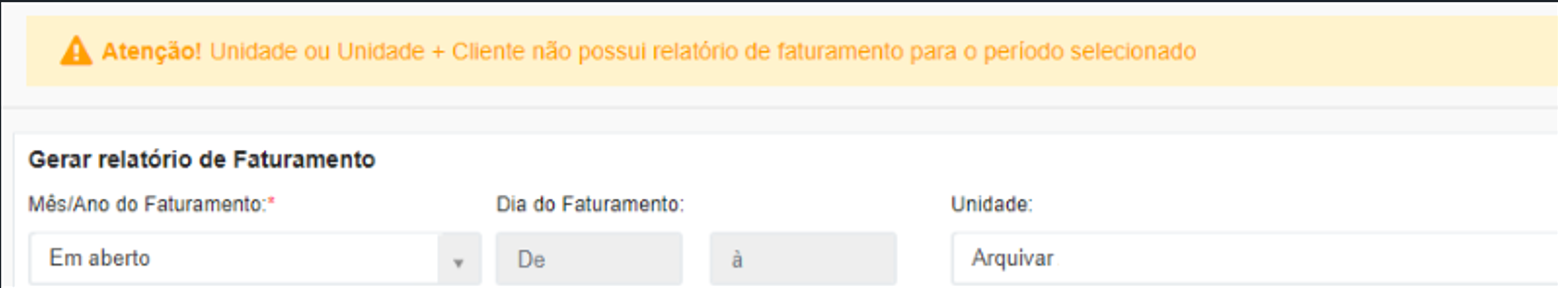
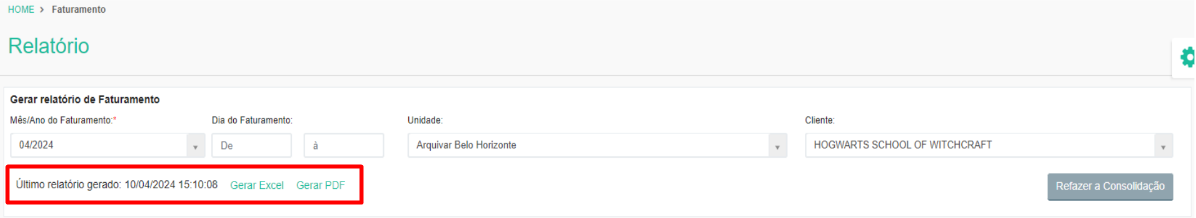
GITBOOK-422: No subject

diff --git a/cliente/contratos/aba-servico/README.md b/cliente/contratos/aba-servico/README.md
@@ -114,9 +114,22 @@ O faturamento parcelado é cobrado uma única vez, podendo ser parcelado ou não
 
 <figure><img src="../../../.gitbook/assets/servicos14.png" alt=""><figcaption><p>Clique na imagem para ampliar.</p></figcaption></figure>
 
-**Pacote Inicial:** O valor informado neste campo será consumido uma única vez. Depois de consumido passará a ser descontada a quantidade do pacote periódico ou do pacote unitário.&#x20;
+**Unidade de Medida para Limite Gratuito:** Informe se deve ser considerado para cálculo de requisições gratuitas o quantitativo realizado no "Dia" ou no "Mês".
 
-**Preço do Pacote Inicial:** Informe o valor que será cobrado do pacote inicial.&#x20;
+**Quantidade para o Limite Gratuito:** Neste campo deve ser informada a quantidade de requisições que podem ser realizadas no dia ou no mês de forma gratuita.
+
+<figure><img src="../../../.gitbook/assets/image.png" alt=""><figcaption><p>Clique na imagem para ampliar.</p></figcaption></figure>
+
+O faturamento para a quantidade do serviço ArqAPI, segue o mesmo padrão dos demais softwares que usam a combinação de campos: &#x20;
+
+* Pacote Periódico&#x20;
+* Preço Pacote Periódico&#x20;
+* Pacote Unitário&#x20;
+* Preço Pacote Unitário&#x20;
+
+**Pacote Inicial:** O valor informado neste campo será consumido uma única vez. Depois de consumido passará a ser descontada a quantidade do pacote periódico ou do pacote unitário. Quando se tratar de software esse campo não estará disponível para preenchimento.
+
+**Preço do Pacote Inicial:** Informe o valor que será cobrado do pacote inicial. Quando se tratar de software esse campo não estará disponível para preenchimento.
 
 **Pacote Periódico:** O valor informado neste campo será cobrado periodicamente, independente do uso.&#x20;
 

diff --git a/faturamento/relatorio.md b/faturamento/relatorio.md
@@ -8,7 +8,7 @@ Neste menu a unidade Arquivar pode gerar os relatórios de faturamento de seus c
 
 Sempre que o usuário acessar esta tela, no período fechado ou já faturado para a Unidade ou Unidade cliente, é exibido o link de acesso ao último relatório gerado em PDF ou Excel.
 
-<figure><img src="../.gitbook/assets/image.png" alt=""><figcaption><p>Clique na imagem para ampliar.</p></figcaption></figure>
+<figure><img src="../.gitbook/assets/image (1).png" alt=""><figcaption><p>Clique na imagem para ampliar.</p></figcaption></figure>
 
 ### Faturamento período "Em aberto"
 
